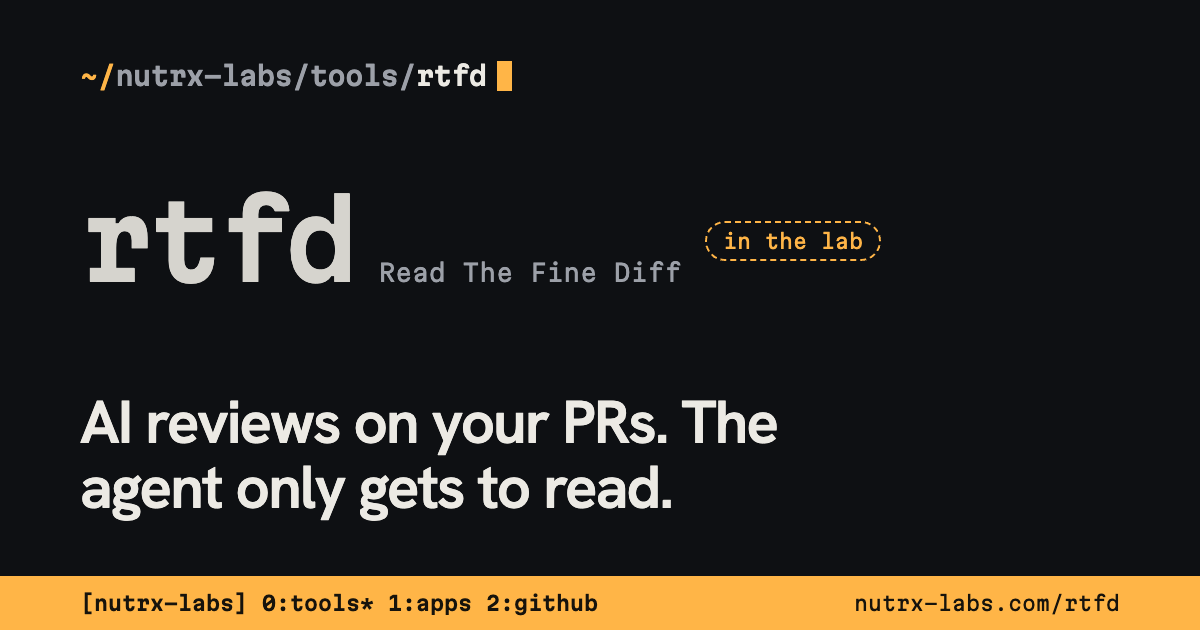
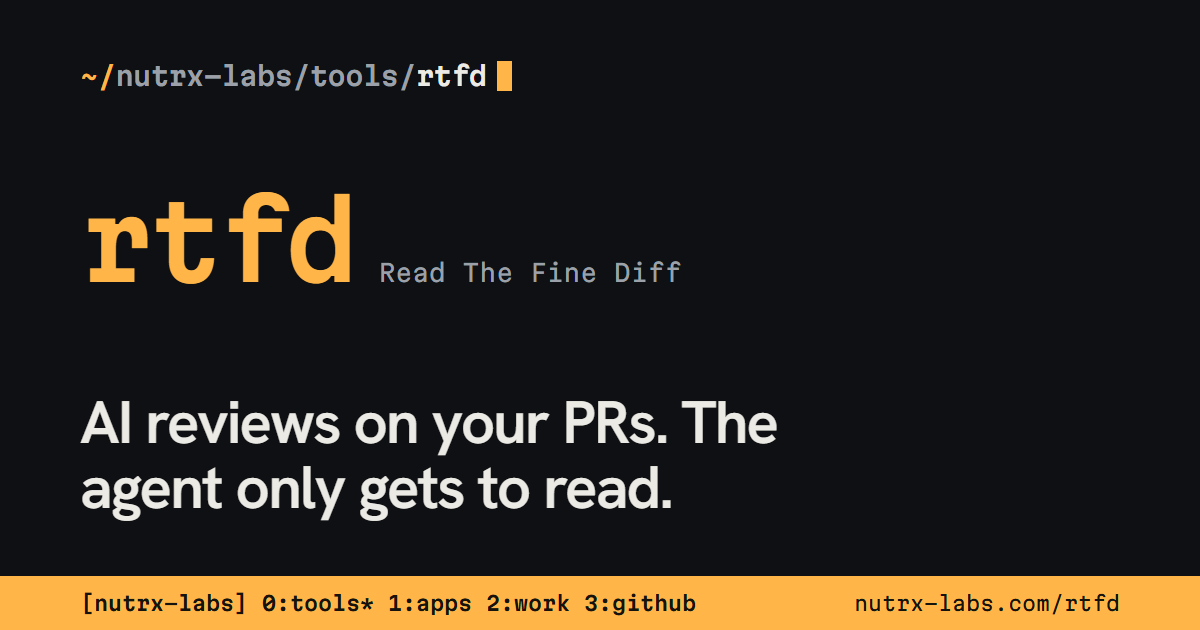
rtfd is out of the lab: early, 0.1 release candidates
rtfd now watches, reviews, posts and follows up, on GitHub, Azure DevOps
and Bitbucket, with Claude Code or Copilot CLI, and has release archives.
The site still called it "in the lab" with nothing to install.

- The card: "early · v0.1-rc.2 · MIT", what it does today, the commands to
  validate, dry-run a PR and serve, and a releases link.
- The tool page: what it does and how it works now, from the README: unpack
  a release, the config, validate and one dry run, then serve and status.
  The notes say what's next (install-service) and where it runs.
- Versions: GitHub's "latest release" skips pre-releases, so a tool with only
  release candidates now gets its newest one, keeping the -rc suffix.
- Social images: rtfd's loses the lab badge; every image's status bar reads
  0:tools 1:apps 2:work 3:github, and the main one lists work/ getbetter.

diff --git a/scripts/og/og.html b/scripts/og/og.html
@@ -8,12 +8,12 @@ html,body{margin:0;width:1200px;height:630px;background:#0E1013;color:#ECEAE4;ov
 .wrap{box-sizing:border-box;height:576px;padding:64px 80px;display:flex;flex-direction:column;justify-content:space-between}
 .wm{font:600 28px M;letter-spacing:-.02em;display:flex;align-items:center}.wm i{display:inline-block;width:16px;height:32px;background:#FFB547;margin-left:10px}
 h1{margin:0;font:600 96px/1.02 H;letter-spacing:-.035em}h1 span{color:#FFB547}
-.ls{font:400 22px M;color:#9CA0A8;display:flex;gap:40px}.ls b{font-weight:400;color:#FFB547}.ls em{font-style:normal;color:#ECEAE4}
+.ls{font:400 20px M;color:#9CA0A8;display:flex;gap:32px;white-space:nowrap}.ls b{font-weight:400;color:#FFB547}.ls em{font-style:normal;color:#ECEAE4}
 .bar{height:54px;background:#FFB547;color:#16130C;font:600 20px M;display:flex;align-items:center;justify-content:space-between;padding:0 80px}
 </style>
 <div class="wrap">
 <div class="wm"><span style="color:#FFB547">~/</span>nutrx-labs<i></i></div>
 <h1>Software that runs<br><span>on your side.</span></h1>
-<div class="ls"><span><b>tools/</b> <em>rtfm rtfq rtfc rtfd</em></span><span><b>apps/</b> <em>nutrx softfill princess</em></span></div>
+<div class="ls"><span><b>tools/</b> <em>rtfm rtfq rtfc rtfd</em></span><span><b>apps/</b> <em>nutrx softfill princess</em></span><span><b>work/</b> <em>getbetter</em></span></div>
 </div>
-<div class="bar"><span>[nutrx-labs] 0:tools* 1:apps 2:github</span><span style="font-weight:400">nutrx-labs.com</span></div>
+<div class="bar"><span>[nutrx-labs] 0:tools* 1:apps 2:work 3:github</span><span style="font-weight:400">nutrx-labs.com</span></div>

diff --git a/src/lib/products.ts b/src/lib/products.ts
@@ -28,6 +28,12 @@ function majorMinor(version?: string): string | null {
   return match ? `${match[1]}.${match[2]}` : null;
 }
 
+/** A tool's tag, keeping a pre-release's suffix: "v1.13.0" -> "1.13", "v0.1.0-rc.2" -> "0.1-rc.2" */
+function toolVersion(tag?: string): string | null {
+  const match = tag?.match(/^v?(\d+)\.(\d+)(?:\.\d+)?(-[0-9A-Za-z.]+)?$/);
+  return match ? `${match[1]}.${match[2]}${match[3] ?? ''}` : null;
+}
+
 async function latestRelease(repo: string): Promise<string | null> {
   const headers: Record<string, string> = { Accept: 'application/vnd.github+json' };
   const token = process.env.GITHUB_TOKEN ?? process.env.GH_TOKEN;
@@ -36,7 +42,13 @@ async function latestRelease(repo: string): Promise<string | null> {
     `https://api.github.com/repos/${OWNER}/${repo}/releases/latest`,
     headers,
   );
-  return majorMinor(release?.tag_name);
+  if (release?.tag_name) return toolVersion(release.tag_name);
+  // GitHub's "latest" skips pre-releases, so a tool with only release candidates gets its newest one.
+  const releases = await fetchJson<{ tag_name?: string; draft?: boolean }[]>(
+    `https://api.github.com/repos/${OWNER}/${repo}/releases?per_page=10`,
+    headers,
+  );
+  return toolVersion(releases?.find((r) => !r.draft)?.tag_name);
 }
 
 async function appStoreListing(id: string): Promise<{ version: string; price: string } | null> {

diff --git a/scripts/og/tool.html b/scripts/og/tool.html
@@ -22,7 +22,7 @@ h1{margin:0;font:600 60px/1.08 H;letter-spacing:-.03em;max-width:1040px;text-wra
   </div>
   <h1 id="tagline"></h1>
 </div>
-<div class="bar"><span>[nutrx-labs] 0:tools* 1:apps 2:github</span><em id="url"></em></div>
+<div class="bar"><span>[nutrx-labs] 0:tools* 1:apps 2:work 3:github</span><em id="url"></em></div>
 <script>
   const q = new URLSearchParams(location.search);
   const set = (id, v) => (document.getElementById(id).textContent = v);
